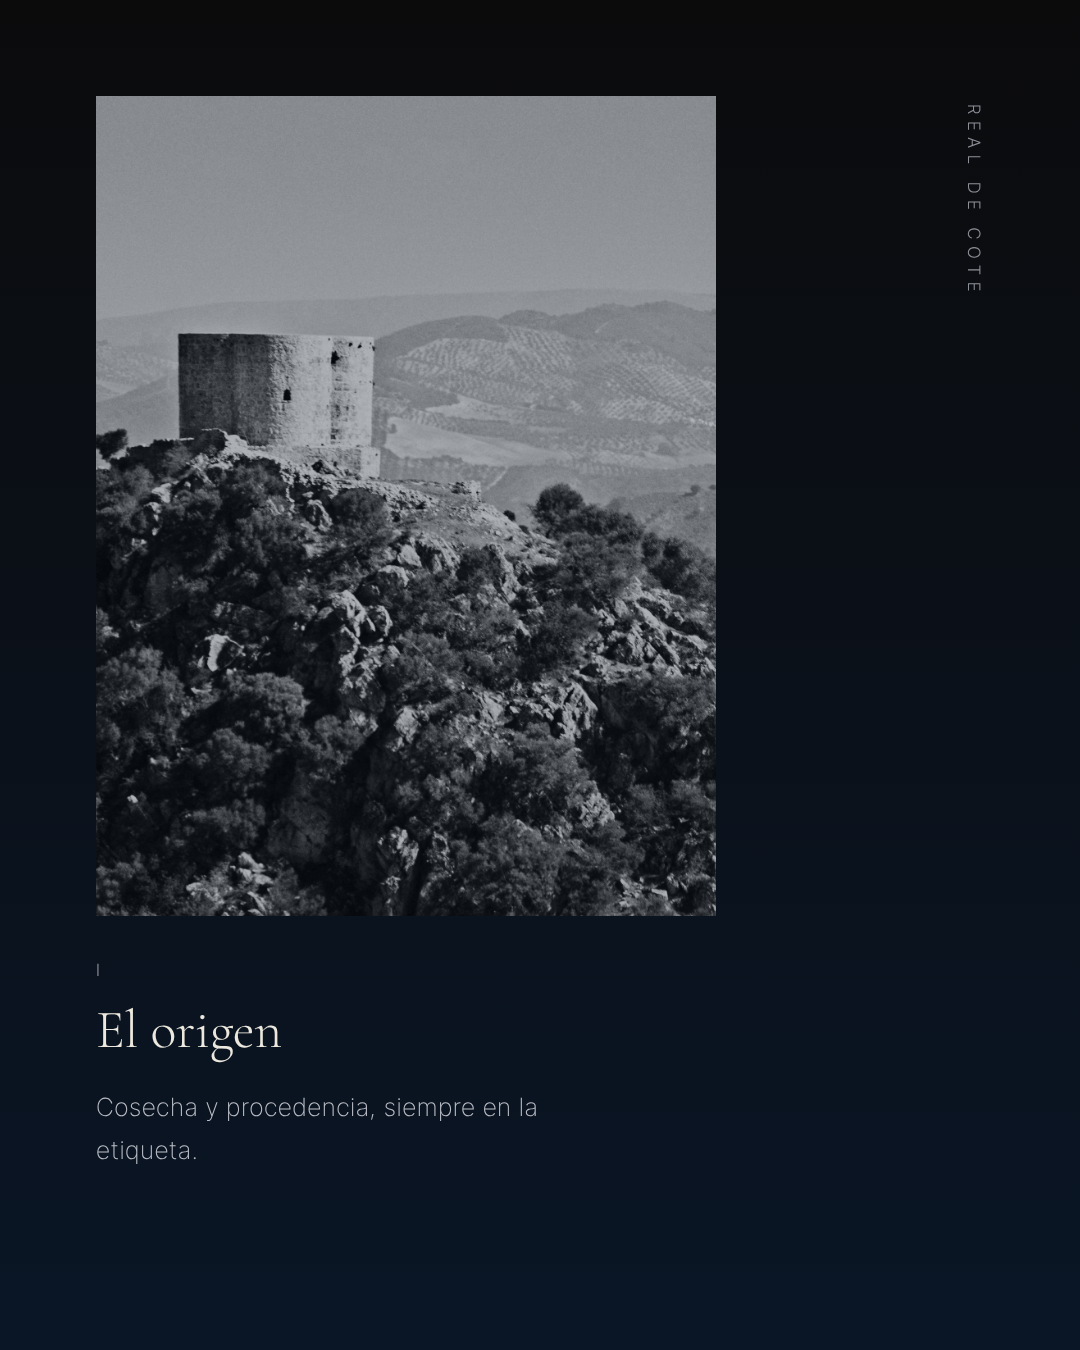
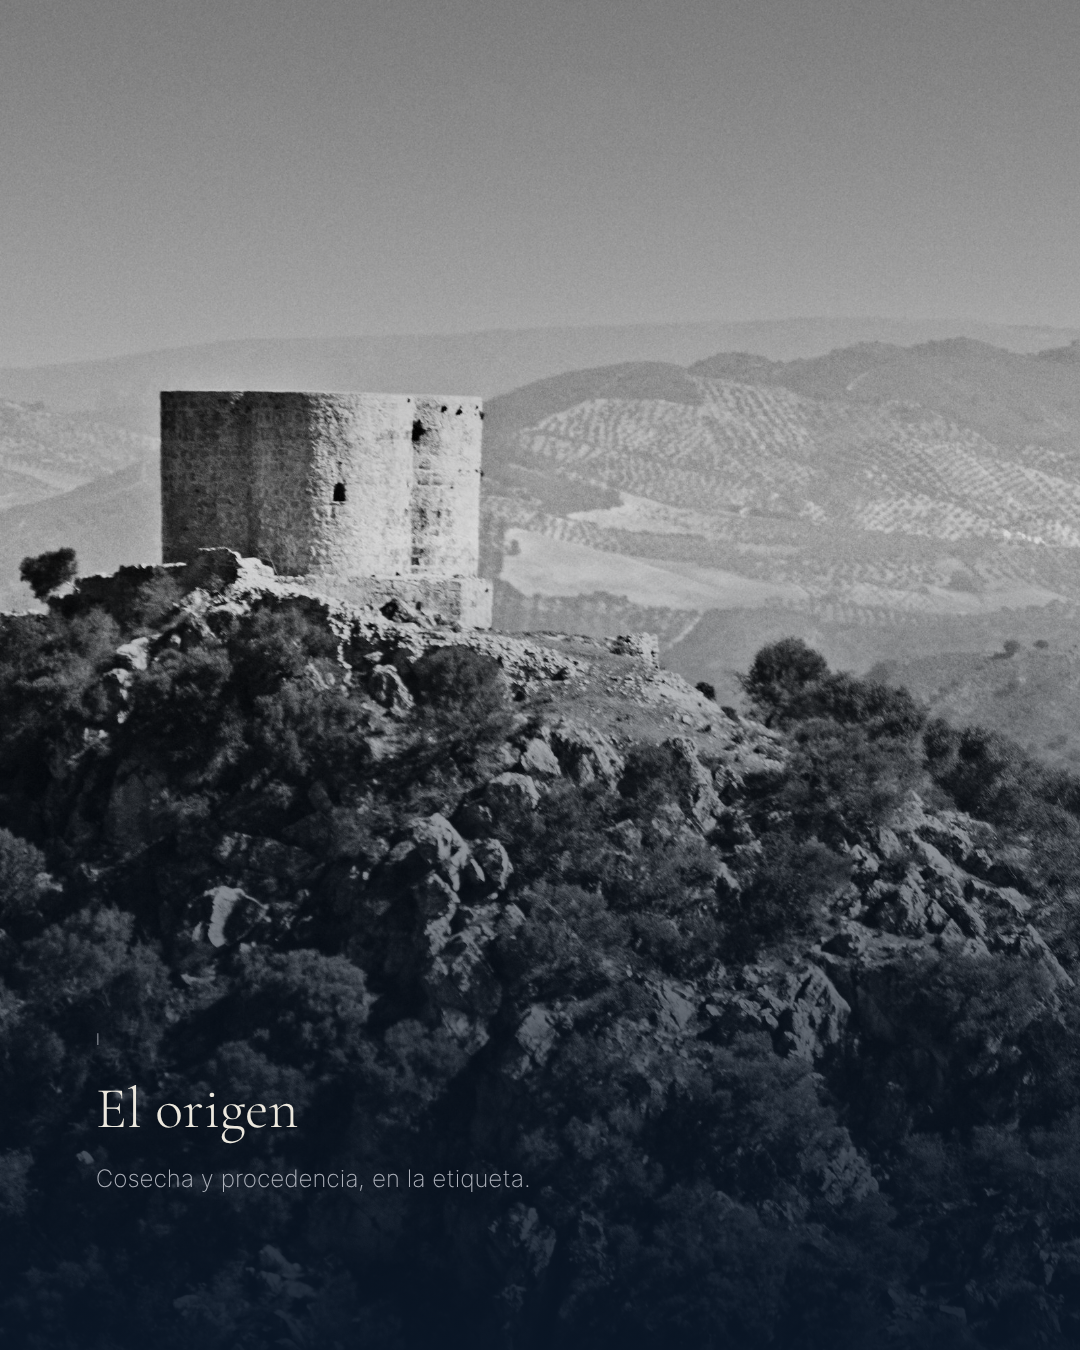
Day 4 carousel: bottle as hero, blue glow behind product only
Claude-Session: https://claude.ai/code/session_01V2Rynvxapw1gCZn9iDyVeW

diff --git a/instagram/dia04/carrusel.html b/instagram/dia04/carrusel.html
@@ -1,78 +1,76 @@
 <!doctype html><html lang="es"><head><meta charset="utf-8">
 <link href="https://fonts.googleapis.com/css2?family=Cormorant+Garamond:ital,wght@0,300;0,400;1,300&family=Inter+Tight:wght@200;300&display=swap" rel="stylesheet">
 <style>
-:root{--navy:#0a1626;--gold:#b99a62;--ink:#ece8de;--mut:#8d9099}
+:root{--navy:#0a1626;--ink:#ece8de;--mut:#8d9099}
 *{box-sizing:border-box;margin:0}
 body{background:#222}
 .s{width:1080px;height:1350px;position:relative;overflow:hidden;background:linear-gradient(180deg,#0b0b0c 0%,#0a1626 100%);color:var(--ink);font-family:'Inter Tight',sans-serif;font-weight:200}
 .abs{position:absolute}
-.ph{position:absolute;background-size:cover;background-position:center}
+.ph{position:absolute;inset:0;background-size:cover;background-position:center}
 .tint{position:absolute;inset:0}
-.cap{font-size:17px;letter-spacing:.34em;text-transform:uppercase;color:var(--mut);font-weight:300}
-.mut{color:var(--mut)}
-.serif{font-family:'Cormorant Garamond',serif;font-weight:300;letter-spacing:-.005em}
-.t{font-size:68px;line-height:1.08}
-.t i{font-style:italic;color:var(--ink)}
-.line{font-size:25px;line-height:1.7;color:#b9bcc4;font-weight:200;letter-spacing:.02em}
-.hair{position:absolute;background:rgba(236,232,222,.3)}
-.mark{position:absolute;width:104px;filter:drop-shadow(0 0 18px rgba(10,22,38,.9))}
+.cap{font-size:16px;letter-spacing:.38em;text-transform:uppercase;color:var(--mut);font-weight:300}
+.serif{font-family:'Cormorant Garamond',serif;font-weight:300}
+.t{font-size:70px;line-height:1.08}
+.t i{font-style:italic}
+.line{font-size:24px;line-height:1.7;color:#aeb2bb;font-weight:200;letter-spacing:.02em}
+.hair{position:absolute;background:rgba(236,232,222,.28);height:1px;width:56px}
+.center{left:0;width:1080px;text-align:center}
 </style></head><body>
 
-<!-- 1 · portada: foto aérea a sangre, título pequeño abajo -->
+<!-- 1 · portada: botella a sangre, negro→azul en la botella -->
 <section class="s" id="s1">
- <div class="ph" style="inset:0;background-image:url(foto_hileras-1440.jpg);background-size:140%;background-position:30% 40%"></div>
- <div class="tint" style="background:linear-gradient(180deg,rgba(11,11,12,.95) 0%,rgba(11,11,12,.55) 25%,rgba(10,22,38,.3) 55%,rgba(10,22,38,.95) 100%)"></div>
- <img class="mark" src="logo-gold.png" style="left:488px;top:84px">
- <div class="abs" style="left:96px;bottom:150px">
-  <div class="cap" style="margin-bottom:34px">Guía</div>
-  <div class="serif t" style="font-size:76px">Cómo reconocer<br>un buen <i>aceite</i></div>
+ <div class="ph" style="background-image:url(botellas_coupage_estudio.webp)"></div>
+ <div class="tint" style="background:radial-gradient(ellipse 65% 50% at 50% 50%,#12305a 0%,#0a1626 55%,#000 100%);mix-blend-mode:screen;opacity:.55"></div><div class="tint" style="background:radial-gradient(ellipse 80% 70% at 50% 50%,rgba(11,11,12,0) 55%,rgba(11,11,12,.85) 100%)"></div>
+ <div class="tint" style="background:linear-gradient(180deg,rgba(11,11,12,.7) 0%,rgba(11,11,12,0) 30%,rgba(11,11,12,0) 65%,rgba(11,11,12,.9) 100%)"></div>
+ <div class="abs center" style="top:100px"><div class="cap">Real de Cote</div></div>
+ <div class="abs center" style="bottom:130px">
+  <div class="serif t" style="font-size:62px">Cómo reconocer un buen <i>aceite</i></div>
  </div>
- <div class="hair" style="left:96px;bottom:110px;width:60px;height:1px"></div>
 </section>
 
-<!-- 2 · origen: foto en ventana descentrada -->
+<!-- 2 · origen: castillo a sangre -->
 <section class="s" id="s2">
- <div class="ph" style="left:96px;top:96px;width:620px;height:820px;background-image:url(foto_castillo-cote-1920.jpg);background-position:42% 40%"></div>
- <div class="tint" style="left:96px;top:96px;width:620px;height:820px;inset:auto;background:rgba(10,22,38,.28);left:96px;top:96px"></div>
- <div class="cap abs" style="left:96px;top:960px">I</div>
- <div class="serif abs" style="left:96px;top:1000px;font-size:54px;line-height:1.1">El origen</div>
- <div class="line abs" style="left:96px;top:1086px;width:470px">Cosecha y procedencia, siempre en la etiqueta.</div>
- <div class="cap abs mut" style="right:96px;top:104px;writing-mode:vertical-rl;letter-spacing:.4em">Real de Cote</div>
-</section>
-
-<!-- 3 · luz: recorte de botella, ventana alta a la derecha -->
-<section class="s" id="s3">
- <div class="abs" style="right:96px;top:150px;width:470px;height:880px;overflow:hidden;border:1px solid rgba(236,232,222,.14);background:#0a1626">
-  <div style="position:absolute;inset:0;background-image:url(botellas_coupage_estudio.webp);background-size:1230px auto;background-position:-355px -130px;mix-blend-mode:lighten"></div>
- </div>
- <div class="cap abs" style="left:96px;top:150px">II</div>
- <div class="serif abs" style="left:96px;top:196px;font-size:54px;line-height:1.1">La luz</div>
- <div class="line abs" style="left:96px;top:282px;width:300px">El vidrio oscuro protege el aceite.</div>
- </section>
-
-<!-- 4 · aroma: hoja a sangre, texto mínimo -->
-<section class="s" id="s4">
- <div class="ph" style="inset:0;background-image:url(foto_hoja-1920.jpg);background-position:40% 50%"></div>
- <div class="tint" style="background:linear-gradient(180deg,rgba(10,22,38,.15) 35%,rgba(10,22,38,.88) 100%)"></div>
+ <div class="ph" style="background-image:url(foto_castillo-cote-1920.jpg);background-position:45% 30%"></div>
+ <div class="tint" style="background:linear-gradient(180deg,rgba(11,11,12,.35) 0%,rgba(11,11,12,.1) 40%,rgba(10,22,38,.95) 100%)"></div>
  <div class="abs" style="left:96px;bottom:150px">
-  <div class="cap" style="margin-bottom:30px">III</div>
-  <div class="serif" style="font-size:64px;line-height:1.1">El aroma</div>
-  <div class="line" style="margin-top:22px">Hierba, tomate, almendra.</div>
+  <div class="cap" style="margin-bottom:28px">I</div>
+  <div class="serif" style="font-size:58px;line-height:1.1">El origen</div>
+  <div class="line" style="margin-top:18px">Cosecha y procedencia, en la etiqueta.</div>
  </div>
 </section>
 
-<!-- 5 · sabor: banda panorámica estrecha centrada, mucho aire -->
+<!-- 3 · luz: detalle del cuello y el tapón, muy ampliado -->
+<section class="s" id="s3">
+ <div class="ph" style="background-image:url(botellas_coupage_estudio.webp);background-size:2300px auto;background-position:50% 9%"></div>
+ <div class="tint" style="background:radial-gradient(ellipse 60% 45% at 50% 45%,#12305a 0%,#0a1626 55%,#000 100%);mix-blend-mode:screen;opacity:.5"></div><div class="tint" style="background:radial-gradient(ellipse 80% 70% at 50% 50%,rgba(11,11,12,0) 55%,rgba(11,11,12,.85) 100%)"></div>
+ <div class="abs" style="left:96px;top:140px">
+  <div class="cap" style="margin-bottom:28px">II</div>
+  <div class="serif" style="font-size:58px;line-height:1.1">La luz</div>
+  <div class="line" style="margin-top:18px">El vidrio oscuro protege el aceite.</div>
+ </div>
+</section>
+
+<!-- 4 · aroma: hoja a sangre -->
+<section class="s" id="s4">
+ <div class="ph" style="background-image:url(foto_hoja-1920.jpg);background-position:40% 50%"></div>
+ <div class="tint" style="background:linear-gradient(180deg,rgba(11,11,12,.2) 30%,rgba(10,22,38,.92) 100%)"></div>
+ <div class="abs" style="left:96px;bottom:150px">
+  <div class="cap" style="margin-bottom:28px">III</div>
+  <div class="serif" style="font-size:58px;line-height:1.1">El aroma</div>
+  <div class="line" style="margin-top:18px">Hierba, tomate, almendra.</div>
+ </div>
+</section>
+
+<!-- 5 · sabor: solo tipografía, centrado -->
 <section class="s" id="s5">
- <div class="ph" style="left:0;top:400px;width:1080px;height:360px;background-image:url(foto_bodega-1920.jpg);background-position:62% 30%;background-size:170%"></div>
- <div class="tint" style="inset:auto;left:0;top:400px;width:1080px;height:360px;background:rgba(10,22,38,.25)"></div>
- <div class="cap abs" style="left:96px;top:880px">IV</div>
- <div class="serif abs" style="left:96px;top:922px;font-size:54px;line-height:1.1">El sabor</div>
- <div class="line abs" style="left:96px;top:1008px;width:520px">Amargo y picante: señales de frescura.</div>
+ <div class="abs center" style="top:520px"><div class="cap">IV</div></div>
+ <div class="abs center serif" style="top:580px;font-size:64px;line-height:1.1">El sabor</div>
+ <div class="hair" style="left:512px;top:700px"></div>
+ <div class="abs center line" style="top:740px">Amargo y picante.<br>Señales de frescura.</div>
 </section>
 
 <!-- 6 · cierre -->
-<section class="s" id="s6" style="background:radial-gradient(ellipse 70% 40% at 50% 46%,#13294a 0%,#0a1626 55%,#0b0b0c 100%)">
- <img src="logo-gold.png" style="position:absolute;width:170px;left:455px;top:520px">
- <div class="cap abs" style="left:0;width:1080px;text-align:center;top:800px;letter-spacing:.4em;font-size:16px">realdecote.es</div>
+<section class="s" id="s6" style="background:radial-gradient(ellipse 60% 36% at 50% 48%,#0f2240 0%,#0a1626 50%,#0b0b0c 100%)">
+ <img src="logo-gold.png" style="position:absolute;width:150px;left:465px;top:540px"><div class="abs center cap" style="top:800px;font-size:15px">realdecote.es</div>
 </section>
 </body></html>
